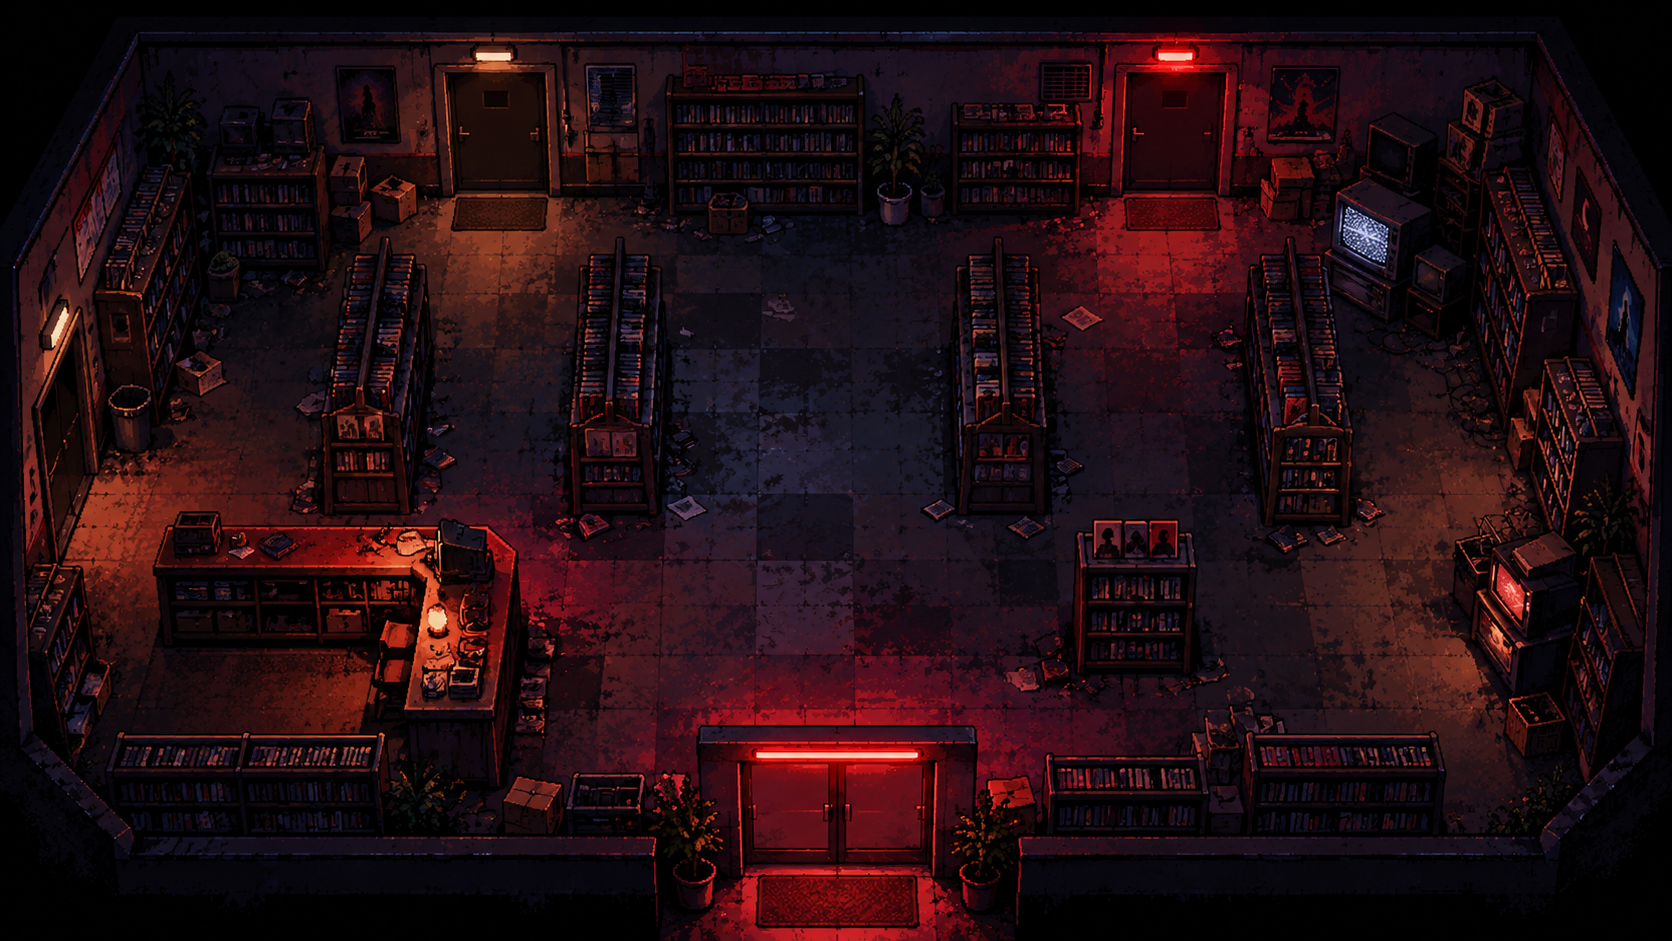
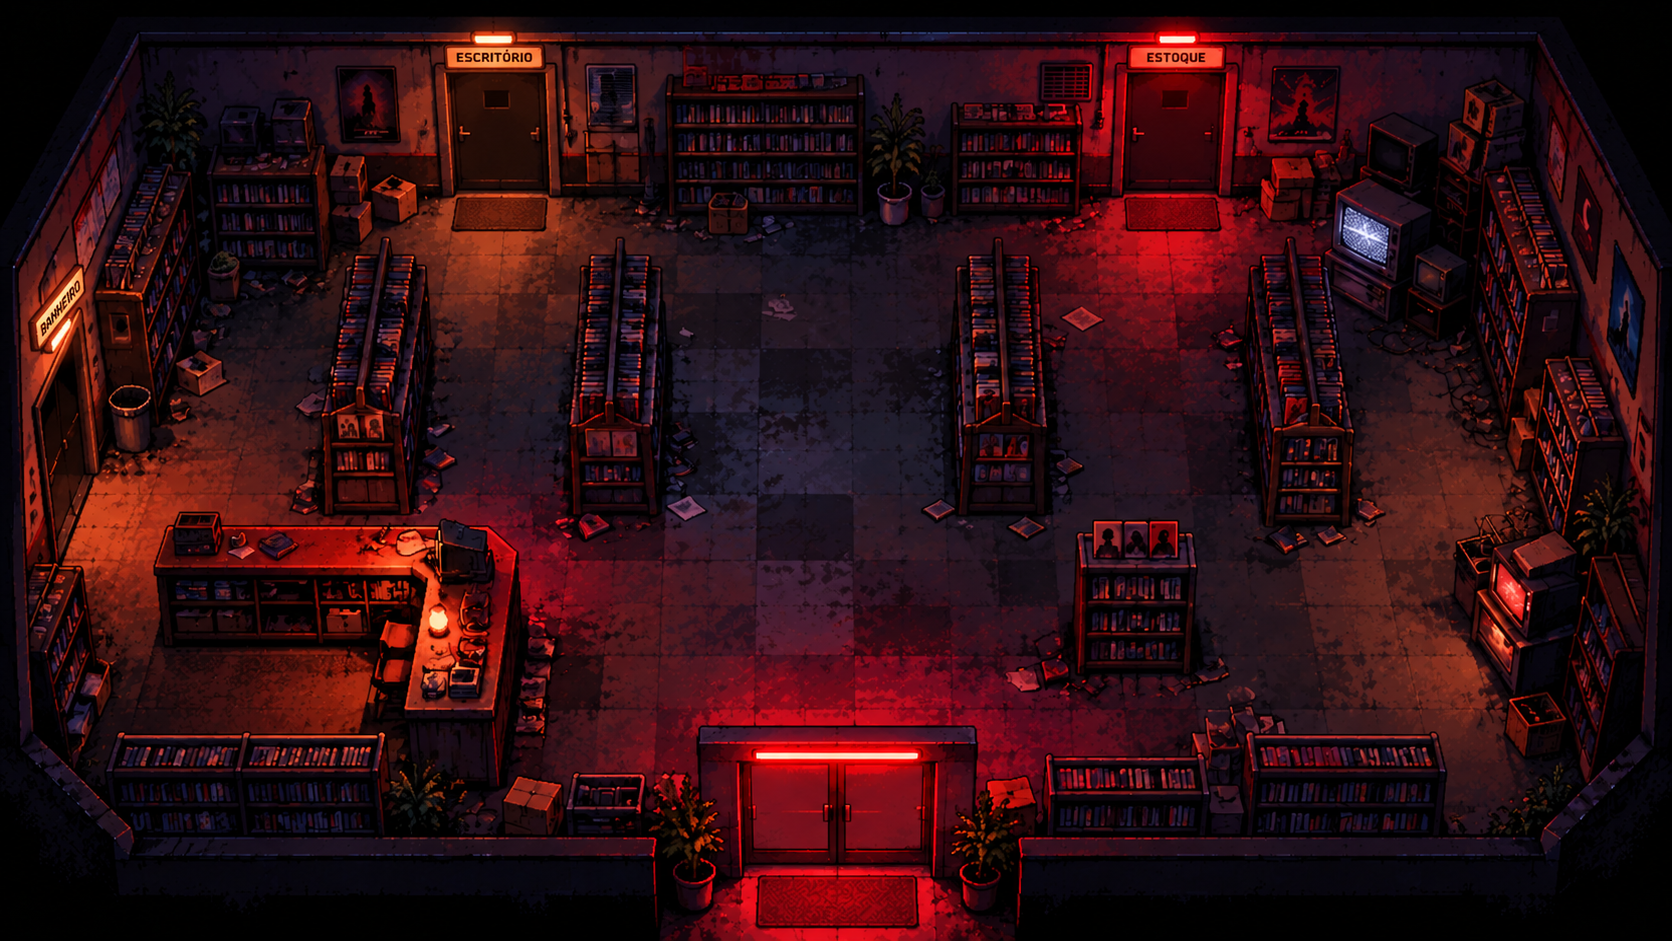
Adiciona assets visuais e atualiza sprites do John

diff --git a/src/main.c b/src/main.c
@@ -6,16 +6,14 @@
 #define NUM_DIRECOES 4
 #define NUM_FRAMES 4
 
-enum Direcao
-{
+enum Direcao {
     BAIXO = 0,
     CIMA,
     DIREITA,
     ESQUERDA
 };
 
-int main(void)
-{
+int main(void) {
     SetConfigFlags(FLAG_FULLSCREEN_MODE);
 
     int monitor = GetCurrentMonitor();
@@ -28,19 +26,9 @@ int main(void)
 
     SetTargetFPS(60);
 
-    Texture2D fundo = LoadTexture("assets/cenarios/salao_principal.png");
-    Texture2D johnParado = LoadTexture("assets/personagens/john/john_frente.png");
-
-    if (fundo.id == 0 || johnParado.id == 0)
-    {
-        if (fundo.id != 0) UnloadTexture(fundo);
-        if (johnParado.id != 0) UnloadTexture(johnParado);
-        CloseWindow();
-        return 1;
-    }
-
-    SetTextureFilter(fundo, TEXTURE_FILTER_POINT);
-    SetTextureFilter(johnParado, TEXTURE_FILTER_POINT);
+    Texture2D fundo = LoadTexture(
+        "assets/cenarios/salao_principal.png"
+    );
 
     const char *pastas[NUM_DIRECOES] = {
         "baixo",
@@ -57,13 +45,33 @@ int main(void)
     };
 
     Texture2D animacoes[NUM_DIRECOES][NUM_FRAMES] = {0};
+    Texture2D johnParado[NUM_DIRECOES] = {0};
 
-    for (int d = 0; d < NUM_DIRECOES; d++)
-    {
-        for (int f = 0; f < NUM_FRAMES; f++)
-        {
-            char caminho[256];
+    bool erro = fundo.id == 0;
 
+    SetTextureFilter(fundo, TEXTURE_FILTER_POINT);
+
+    for (int d = 0; d < NUM_DIRECOES; d++) {
+        char caminho[256];
+
+        snprintf(
+            caminho,
+            sizeof(caminho),
+            "assets/personagens/john/%s/john_parado_%s.png",
+            pastas[d],
+            nomes[d]
+        );
+
+        johnParado[d] = LoadTexture(caminho);
+
+        if (johnParado[d].id == 0) {
+            TraceLog(LOG_ERROR, "Nao foi possivel carregar: %s", caminho);
+            erro = true;
+        } else {
+            SetTextureFilter(johnParado[d], TEXTURE_FILTER_POINT);
+        }
+
+        for (int f = 0; f < NUM_FRAMES; f++) {
             snprintf(
                 caminho,
                 sizeof(caminho),
@@ -75,30 +83,37 @@ int main(void)
 
             animacoes[d][f] = LoadTexture(caminho);
 
-            if (animacoes[d][f].id == 0)
-            {
-                for (int i = 0; i < NUM_DIRECOES; i++)
-                {
-                    for (int j = 0; j < NUM_FRAMES; j++)
-                    {
-                        if (animacoes[i][j].id != 0)
-                        {
-                            UnloadTexture(animacoes[i][j]);
-                        }
-                    }
-                }
+            if (animacoes[d][f].id == 0) {
+                TraceLog(LOG_ERROR, "Nao foi possivel carregar: %s", caminho);
+                erro = true;
+            } else {
+                SetTextureFilter(
+                    animacoes[d][f],
+                    TEXTURE_FILTER_POINT
+                );
+            }
+        }
+    }
 
-                UnloadTexture(fundo);
-                UnloadTexture(johnParado);
-                CloseWindow();
-                return 1;
+    if (erro) {
+        for (int d = 0; d < NUM_DIRECOES; d++) {
+            if (johnParado[d].id != 0) {
+                UnloadTexture(johnParado[d]);
             }
 
-            SetTextureFilter(
-                animacoes[d][f],
-                TEXTURE_FILTER_POINT
-            );
+            for (int f = 0; f < NUM_FRAMES; f++) {
+                if (animacoes[d][f].id != 0) {
+                    UnloadTexture(animacoes[d][f]);
+                }
+            }
         }
+
+        if (fundo.id != 0) {
+            UnloadTexture(fundo);
+        }
+
+        CloseWindow();
+        return 1;
     }
 
     float larguraTela = (float)GetScreenWidth();
@@ -110,14 +125,14 @@ int main(void)
     };
 
     float velocidade = alturaTela * 0.35f;
+
     int direcao = BAIXO;
     int frameAtual = 0;
 
     float tempoAnimacao = 0.0f;
     float duracaoFrame = 0.11f;
 
-    while (!WindowShouldClose())
-    {
+    while (!WindowShouldClose()) {
         float delta = GetFrameTime();
 
         larguraTela = (float)GetScreenWidth();
@@ -128,29 +143,29 @@ int main(void)
         float movimentoX = 0.0f;
         float movimentoY = 0.0f;
 
-        if (IsKeyDown(KEY_A) || IsKeyDown(KEY_LEFT))
+        if (IsKeyDown(KEY_A) || IsKeyDown(KEY_LEFT)) {
             movimentoX -= 1.0f;
+        }
 
-        if (IsKeyDown(KEY_D) || IsKeyDown(KEY_RIGHT))
+        if (IsKeyDown(KEY_D) || IsKeyDown(KEY_RIGHT)) {
             movimentoX += 1.0f;
+        }
 
-        if (IsKeyDown(KEY_W) || IsKeyDown(KEY_UP))
+        if (IsKeyDown(KEY_W) || IsKeyDown(KEY_UP)) {
             movimentoY -= 1.0f;
+        }
 
-        if (IsKeyDown(KEY_S) || IsKeyDown(KEY_DOWN))
+        if (IsKeyDown(KEY_S) || IsKeyDown(KEY_DOWN)) {
             movimentoY += 1.0f;
+        }
 
         bool andando =
             movimentoX != 0.0f || movimentoY != 0.0f;
 
-        if (andando)
-        {
-            if (fabsf(movimentoY) > fabsf(movimentoX))
-            {
+        if (andando) {
+            if (fabsf(movimentoY) > fabsf(movimentoX)) {
                 direcao = movimentoY < 0.0f ? CIMA : BAIXO;
-            }
-            else
-            {
+            } else {
                 direcao = movimentoX > 0.0f ? DIREITA : ESQUERDA;
             }
 
@@ -167,38 +182,43 @@ int main(void)
 
             tempoAnimacao += delta;
 
-            while (tempoAnimacao >= duracaoFrame)
-            {
+            while (tempoAnimacao >= duracaoFrame) {
                 tempoAnimacao -= duracaoFrame;
                 frameAtual = (frameAtual + 1) % NUM_FRAMES;
             }
-        }
-        else
-        {
+        } else {
             frameAtual = 0;
             tempoAnimacao = 0.0f;
         }
 
-        Texture2D atual = andando
-            ? animacoes[direcao][frameAtual]
-            : johnParado;
+        Texture2D atual;
+
+        if (andando) {
+            atual = animacoes[direcao][frameAtual];
+        } else {
+            atual = johnParado[direcao];
+        }
 
         float proporcao =
             (float)atual.width / (float)atual.height;
 
         float larguraJohn = alturaJohn * proporcao;
 
-        if (john.x < larguraJohn / 2.0f)
+        if (john.x < larguraJohn / 2.0f) {
             john.x = larguraJohn / 2.0f;
+        }
 
-        if (john.x > larguraTela - larguraJohn / 2.0f)
+        if (john.x > larguraTela - larguraJohn / 2.0f) {
             john.x = larguraTela - larguraJohn / 2.0f;
+        }
 
-        if (john.y < alturaJohn)
+        if (john.y < alturaJohn) {
             john.y = alturaJohn;
+        }
 
-        if (john.y > alturaTela - 10.0f)
+        if (john.y > alturaTela - 10.0f) {
             john.y = alturaTela - 10.0f;
+        }
 
         BeginDrawing();
 
@@ -206,38 +226,38 @@ int main(void)
 
         DrawTexturePro(
             fundo,
-            (Rectangle){
+            (Rectangle) {
                 0.0f,
                 0.0f,
                 (float)fundo.width,
                 (float)fundo.height
             },
-            (Rectangle){
+            (Rectangle) {
                 0.0f,
                 0.0f,
                 larguraTela,
                 alturaTela
             },
-            (Vector2){0.0f, 0.0f},
+            (Vector2) {0.0f, 0.0f},
             0.0f,
             WHITE
         );
 
         DrawTexturePro(
             atual,
-            (Rectangle){
+            (Rectangle) {
                 0.0f,
                 0.0f,
                 (float)atual.width,
                 (float)atual.height
             },
-            (Rectangle){
+            (Rectangle) {
                 john.x - larguraJohn / 2.0f,
                 john.y - alturaJohn,
                 larguraJohn,
                 alturaJohn
             },
-            (Vector2){0.0f, 0.0f},
+            (Vector2) {0.0f, 0.0f},
             0.0f,
             WHITE
         );
@@ -245,15 +265,14 @@ int main(void)
         EndDrawing();
     }
 
-    for (int d = 0; d < NUM_DIRECOES; d++)
-    {
-        for (int f = 0; f < NUM_FRAMES; f++)
-        {
+    for (int d = 0; d < NUM_DIRECOES; d++) {
+        for (int f = 0; f < NUM_FRAMES; f++) {
             UnloadTexture(animacoes[d][f]);
         }
+
+        UnloadTexture(johnParado[d]);
     }
 
-    UnloadTexture(johnParado);
     UnloadTexture(fundo);
 
     CloseWindow();
